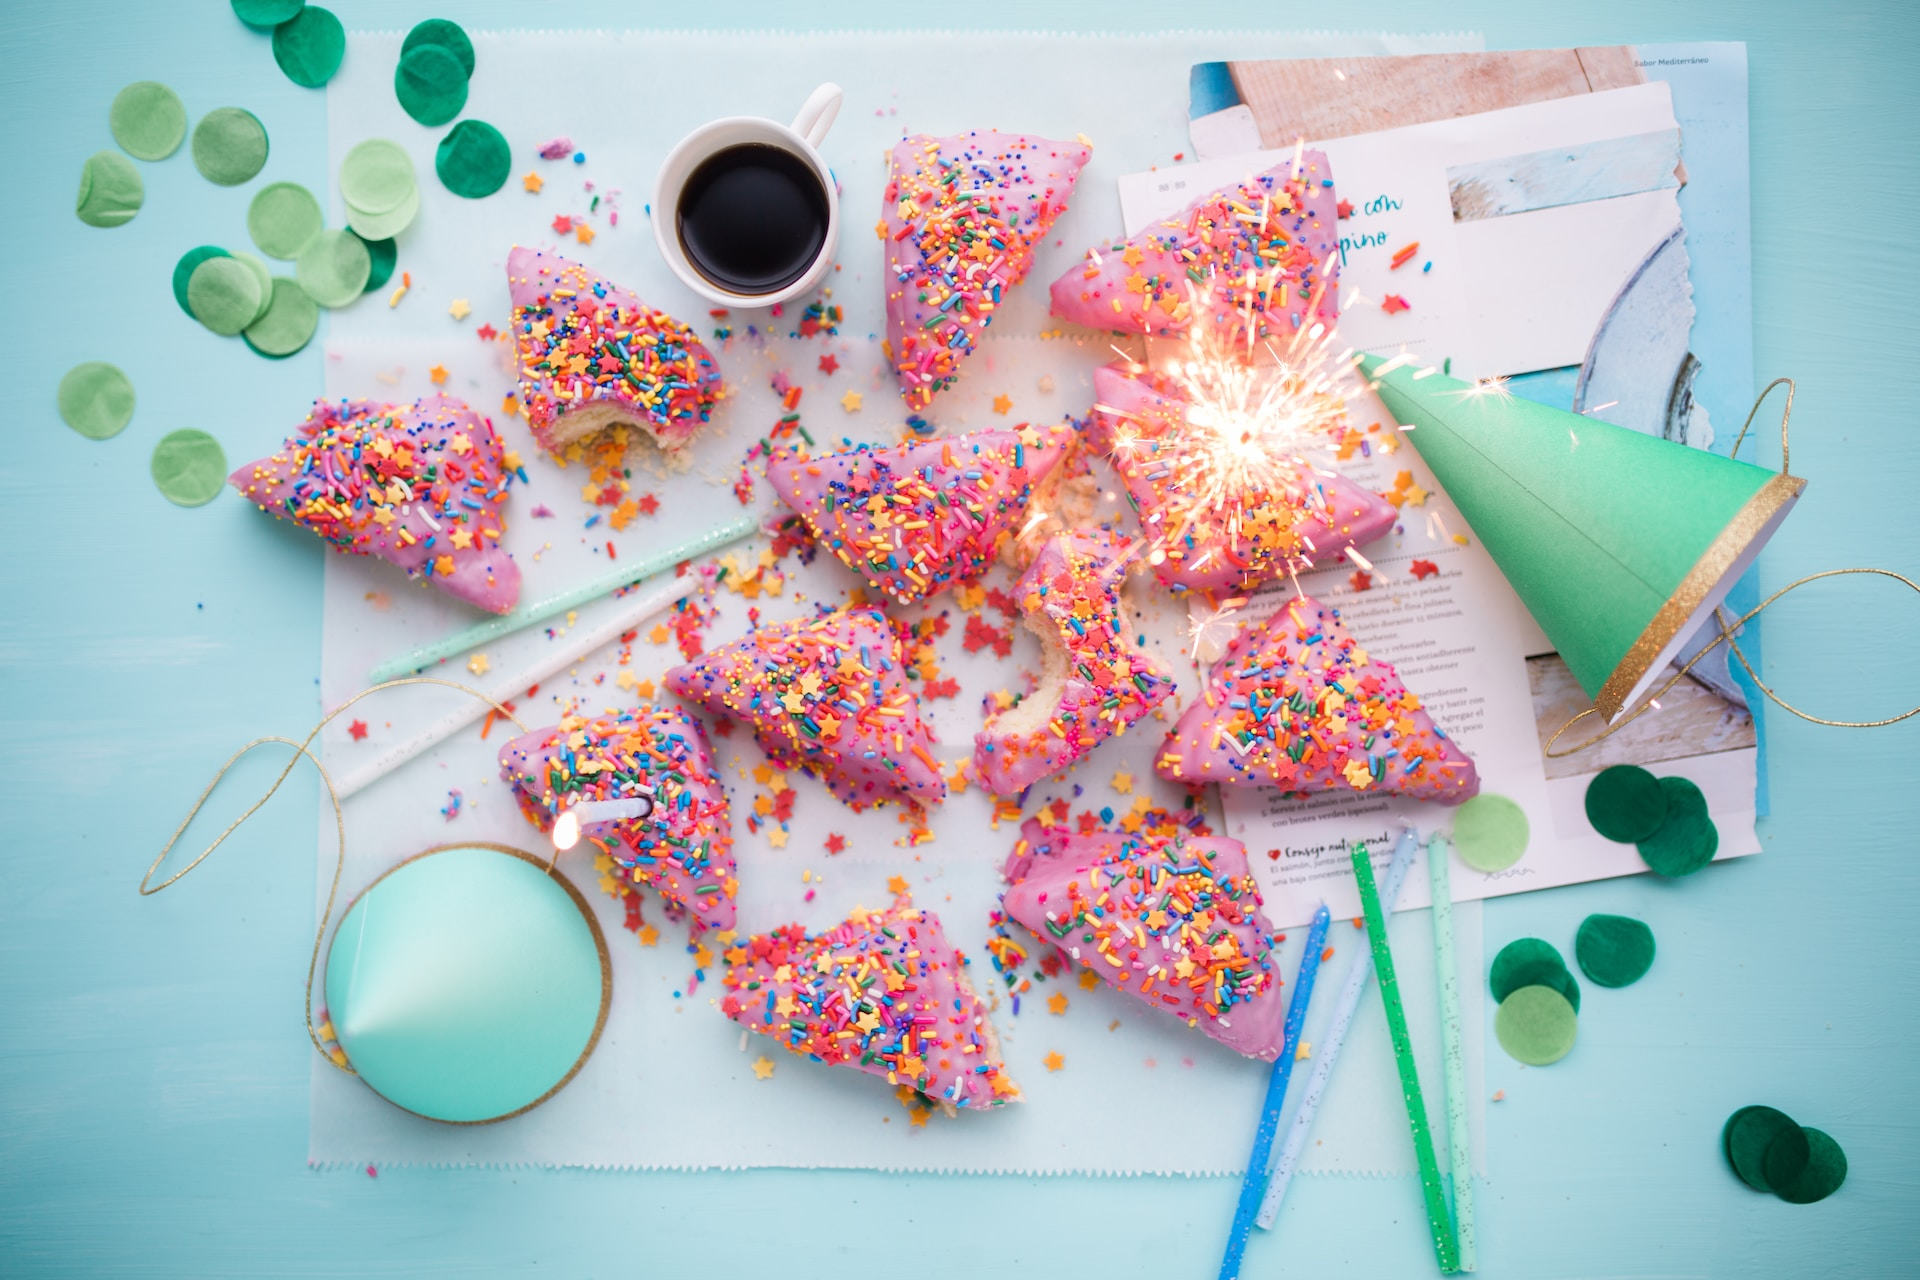
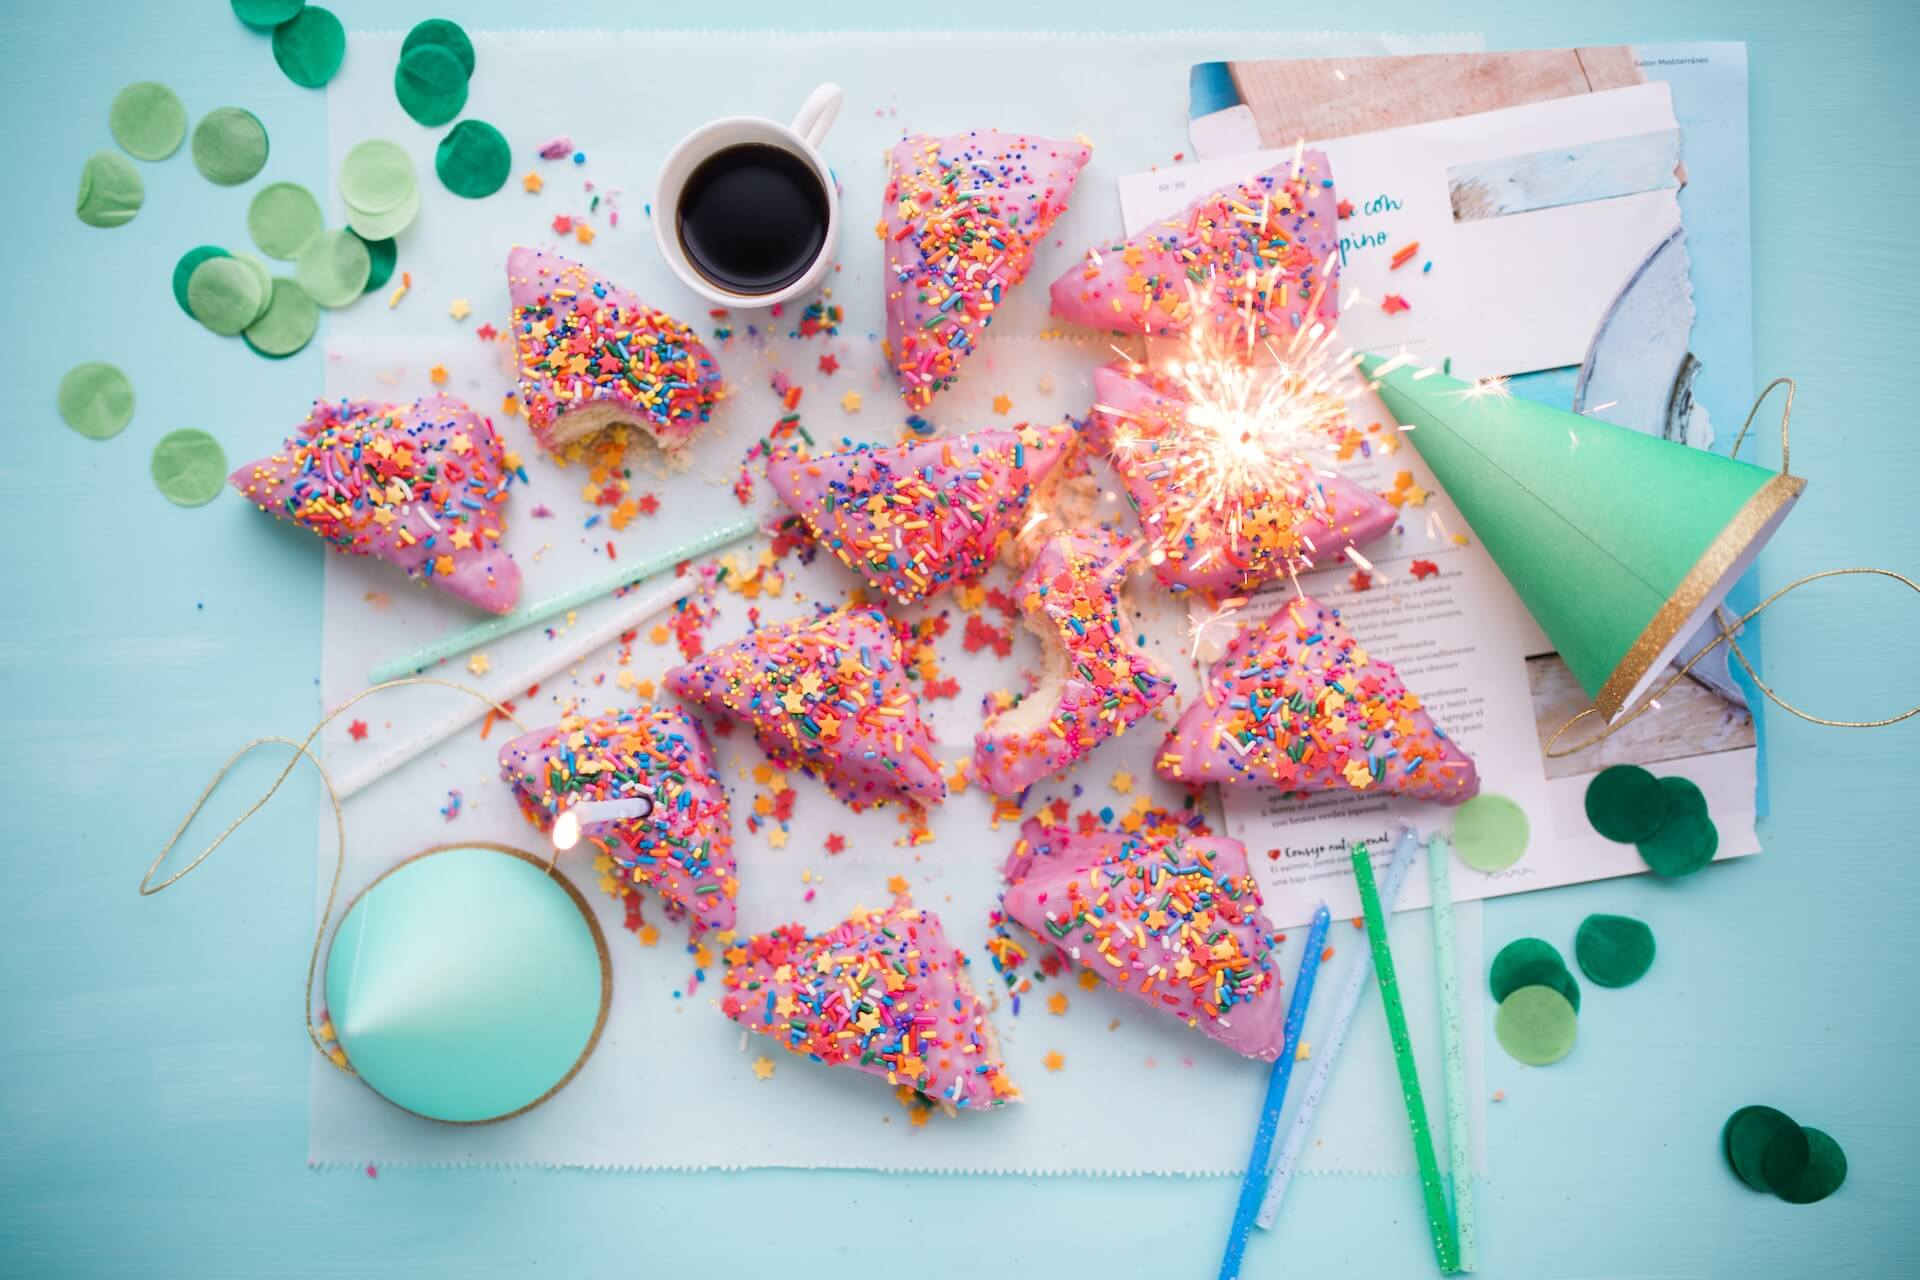
make site responsive and resize image

Changed region(s): [[0.2812, 0.25, 0.3125, 0.2812]]

diff --git a/src/components/home/Navbar.jsx b/src/components/home/Navbar.jsx
@@ -1,19 +1,22 @@
 import { NavLink } from "react-router-dom";
 import logo from "../../assets/logo.png";
-import { useContext } from "react";
+import { useContext, useState } from "react";
 import { AuthContext } from "../shared/AuthProvider";
+import { SlMenu } from "react-icons/sl";
+import { RxCross1 } from "react-icons/rx";
 const Navbar = () => {
     const { user, logOut } = useContext(AuthContext);
+    const [hide, setHide] = useState(false);
 
     return (
         <div className="backdrop-blur-lg bg-white/60 sticky top-0 z-50">
-            <div className="container mx-auto">
+            <div className="container mx-auto relative">
                 <div className="flex justify-between items-center py-8">
                     <div className="">
                         <img className="w-80" src={logo} alt="" />
                     </div>
                     <nav className="">
-                        <ul className="flex gap-6 items-center">
+                        <ul className="lg:flex gap-6 items-center hidden ">
                             <li>
                                 <NavLink className={"pb-3"} to={"/"}>
                                     Home
@@ -61,6 +64,92 @@ const Navbar = () => {
                                     </NavLink>
                                 )}
                             </li>
+                        </ul>
+                        <ul className="">
+                            <button onClick={() => setHide(!hide)}>
+                                <SlMenu className="text-2xl mx-4 lg:hidden block" />
+                            </button>
+                            {hide && (
+                                <div className="h-screen border w-80 absolute top-0 right-0 p-10 flex flex-col gap-y-8 justify-between items-center bg-white">
+                                    <button
+                                        onClick={() => setHide(!hide)}
+                                        className="text-end ms-auto me-8 mt-6"
+                                    >
+                                        <RxCross1 className="text-end  text-3xl" />
+                                    </button>
+                                    <ul className="flex flex-col items-start gap-y-10">
+                                        <li>
+                                            <NavLink
+                                                className={"pb-3"}
+                                                to={"/"}
+                                            >
+                                                Home
+                                            </NavLink>
+                                        </li>
+
+                                        <li>
+                                            <NavLink
+                                                className={"pb-3"}
+                                                to={"/contact"}
+                                            >
+                                                Contact Us
+                                            </NavLink>
+                                        </li>
+                                        <li>
+                                            <NavLink
+                                                className={"pb-3"}
+                                                to={"/purchase"}
+                                            >
+                                                Purchase Service
+                                            </NavLink>
+                                        </li>
+                                        <li>
+                                            {user ? (
+                                                <div className=" border py-2 px-4 flex gap-3 rounded-full items-center">
+                                                    <p className="">
+                                                        {user.displayName}
+                                                    </p>
+                                                    <div className="dropdown dropdown-end">
+                                                        <label
+                                                            tabIndex={0}
+                                                            className="btn btn-ghost btn-circle avatar"
+                                                        >
+                                                            <div className="w-10 rounded-full">
+                                                                <img
+                                                                    src={
+                                                                        user.photoURL
+                                                                    }
+                                                                />
+                                                            </div>
+                                                        </label>
+                                                        <ul
+                                                            tabIndex={0}
+                                                            className="menu menu-lg dropdown-content mt-3 z-[1] p-2 shadow bg-base-100 rounded-box w-52"
+                                                        >
+                                                            <li>
+                                                                <button
+                                                                    onClick={
+                                                                        logOut
+                                                                    }
+                                                                >
+                                                                    Log Out
+                                                                </button>
+                                                            </li>
+                                                        </ul>
+                                                    </div>
+                                                </div>
+                                            ) : (
+                                                <NavLink
+                                                    className={"pb-3"}
+                                                    to={"/login"}
+                                                >
+                                                    Login
+                                                </NavLink>
+                                            )}
+                                        </li>
+                                    </ul>
+                                </div>
+                            )}
                         </ul>
                     </nav>
                 </div>

diff --git a/src/components/home/Gallery.jsx b/src/components/home/Gallery.jsx
@@ -1,4 +1,36 @@
+import img1 from "../../assets/bday.jpg";
+import img2 from "../../assets/bday2.jpg";
+import img3 from "../../assets/eventimg18.jpg";
+import img4 from "../../assets/eventimg.jpg";
+import img5 from "../../assets/eventimg3.jpg";
+import img6 from "../../assets/event4.jpg";
 const Gallery = () => {
+    const images = [
+        {
+            id: 1,
+            img: img1,
+        },
+        {
+            id: 2,
+            img: img2,
+        },
+        {
+            id: 3,
+            img: img3,
+        },
+        {
+            id: 4,
+            img: img4,
+        },
+        {
+            id: 5,
+            img: img5,
+        },
+        {
+            id: 6,
+            img: img6,
+        },
+    ];
     return (
         <div className="">
             <h2 className="text-5xl heading-font md:pb-10 text-center">
@@ -6,48 +38,15 @@ const Gallery = () => {
                 <span className="divider w-28 border p-0  h-1 mx-auto bg-green-700"></span>
             </h2>
             <div className="grid lg:grid-cols-3 md:grid-cols-2 grid-cols-1">
-                <div className="">
-                    <img
-                        className="w-full object-cover h-80"
-                        src="https://i.ibb.co/sCtGFJv/nathan-dumlao-As8zq82-LBpw-unsplash.jpg"
-                        alt=""
-                    />
-                </div>
-                <div className="">
-                    <img
-                        className="w-full object-cover h-80"
-                        src="https://i.ibb.co/yp6ykXh/jon-tyson-CP68p1f-ZS8k-unsplash.jpg"
-                        alt=""
-                    />
-                </div>
-                <div className="">
-                    <img
-                        className="w-full object-cover h-80"
-                        src="https://i.ibb.co/Tgsk3Hf/andrea-mininni-VLlk-OJdz-LG0-unsplash.jpg"
-                        alt=""
-                    />
-                </div>
-                <div className="">
-                    <img
-                        className="w-full object-cover h-80"
-                        src="https://i.ibb.co/WP2mQnt/annie-spratt-t-Kp-A64-Qrcc-M-unsplash.jpg"
-                        alt=""
-                    />
-                </div>
-                <div className="">
-                    <img
-                        className="w-full object-cover h-80"
-                        src="https://i.ibb.co/zQnBVHX/al-elmes-ULHx-Wq8reao-unsplash.jpg"
-                        alt=""
-                    />
-                </div>
-                <div className="">
-                    <img
-                        className="w-full object-cover h-80"
-                        src="https://i.ibb.co/LRgcWMP/event4.jpg"
-                        alt=""
-                    />
-                </div>
+                {images.map((img, idx) => (
+                    <div key={idx} className="">
+                        <img
+                            className="w-full object-cover h-80"
+                            src={img.img}
+                            alt=""
+                        />
+                    </div>
+                ))}
             </div>
         </div>
     );

diff --git a/src/components/home/Banner.jsx b/src/components/home/Banner.jsx
@@ -7,13 +7,13 @@ import event5 from "../../assets/event4.jpg";
 const Banner = () => {
     return (
         <div className="container mx-auto">
-            <div className="md:flex  block justify-between gap-10">
-                <div className="md:py-16 py-4">
-                    <h1 className="md:text-8xl text-4xl font-semibold heading-font md:py-32 py-4 px-1">
+            <div className="lg:flex  block justify-between gap-10">
+                <div className="lg:py-16 py-4">
+                    <h1 className="lg:text-8xl md:text-6xl text-4xl font-semibold heading-font lg:py-32 py-4 px-1">
                         Best Event Management Team in Dhaka City
                     </h1>
                 </div>
-                <div className="md:pt-32 bottom-0">
+                <div className="lg:pt-32 bottom-0">
                     <h2 className="text-sm pb-2">Some of our events photo*</h2>
                     <div className="carousel w-full">
                         <div

diff --git a/src/router/router.jsx b/src/router/router.jsx
@@ -7,6 +7,7 @@ import Register from "../components/shared/Register";
 import ConfirmService from "../components/services/ConfirmService";
 import PrivateRoute from "../components/shared/PrivateRoute";
 import Error from "../components/shared/Error";
+import Contact from "../components/shared/Contact";
 
 const router = createBrowserRouter([
     {
@@ -17,6 +18,14 @@ const router = createBrowserRouter([
             {
                 path: "/",
                 element: <Home />,
+            },
+            {
+                path: "/contact",
+                element: (
+                    <PrivateRoute>
+                        <Contact />
+                    </PrivateRoute>
+                ),
             },
             {
                 path: "/purchase",

diff --git a/src/components/shared/Contact.jsx b/src/components/shared/Contact.jsx
@@ -1,0 +1,12 @@
+const Contact = () => {
+    return (
+        <div>
+            <h2 className="text-5xl heading-font md:pb-10 text-center">
+                Contact Us
+                <span className="divider w-28 border p-0  h-1 mx-auto bg-green-700"></span>
+            </h2>
+        </div>
+    );
+};
+
+export default Contact;
